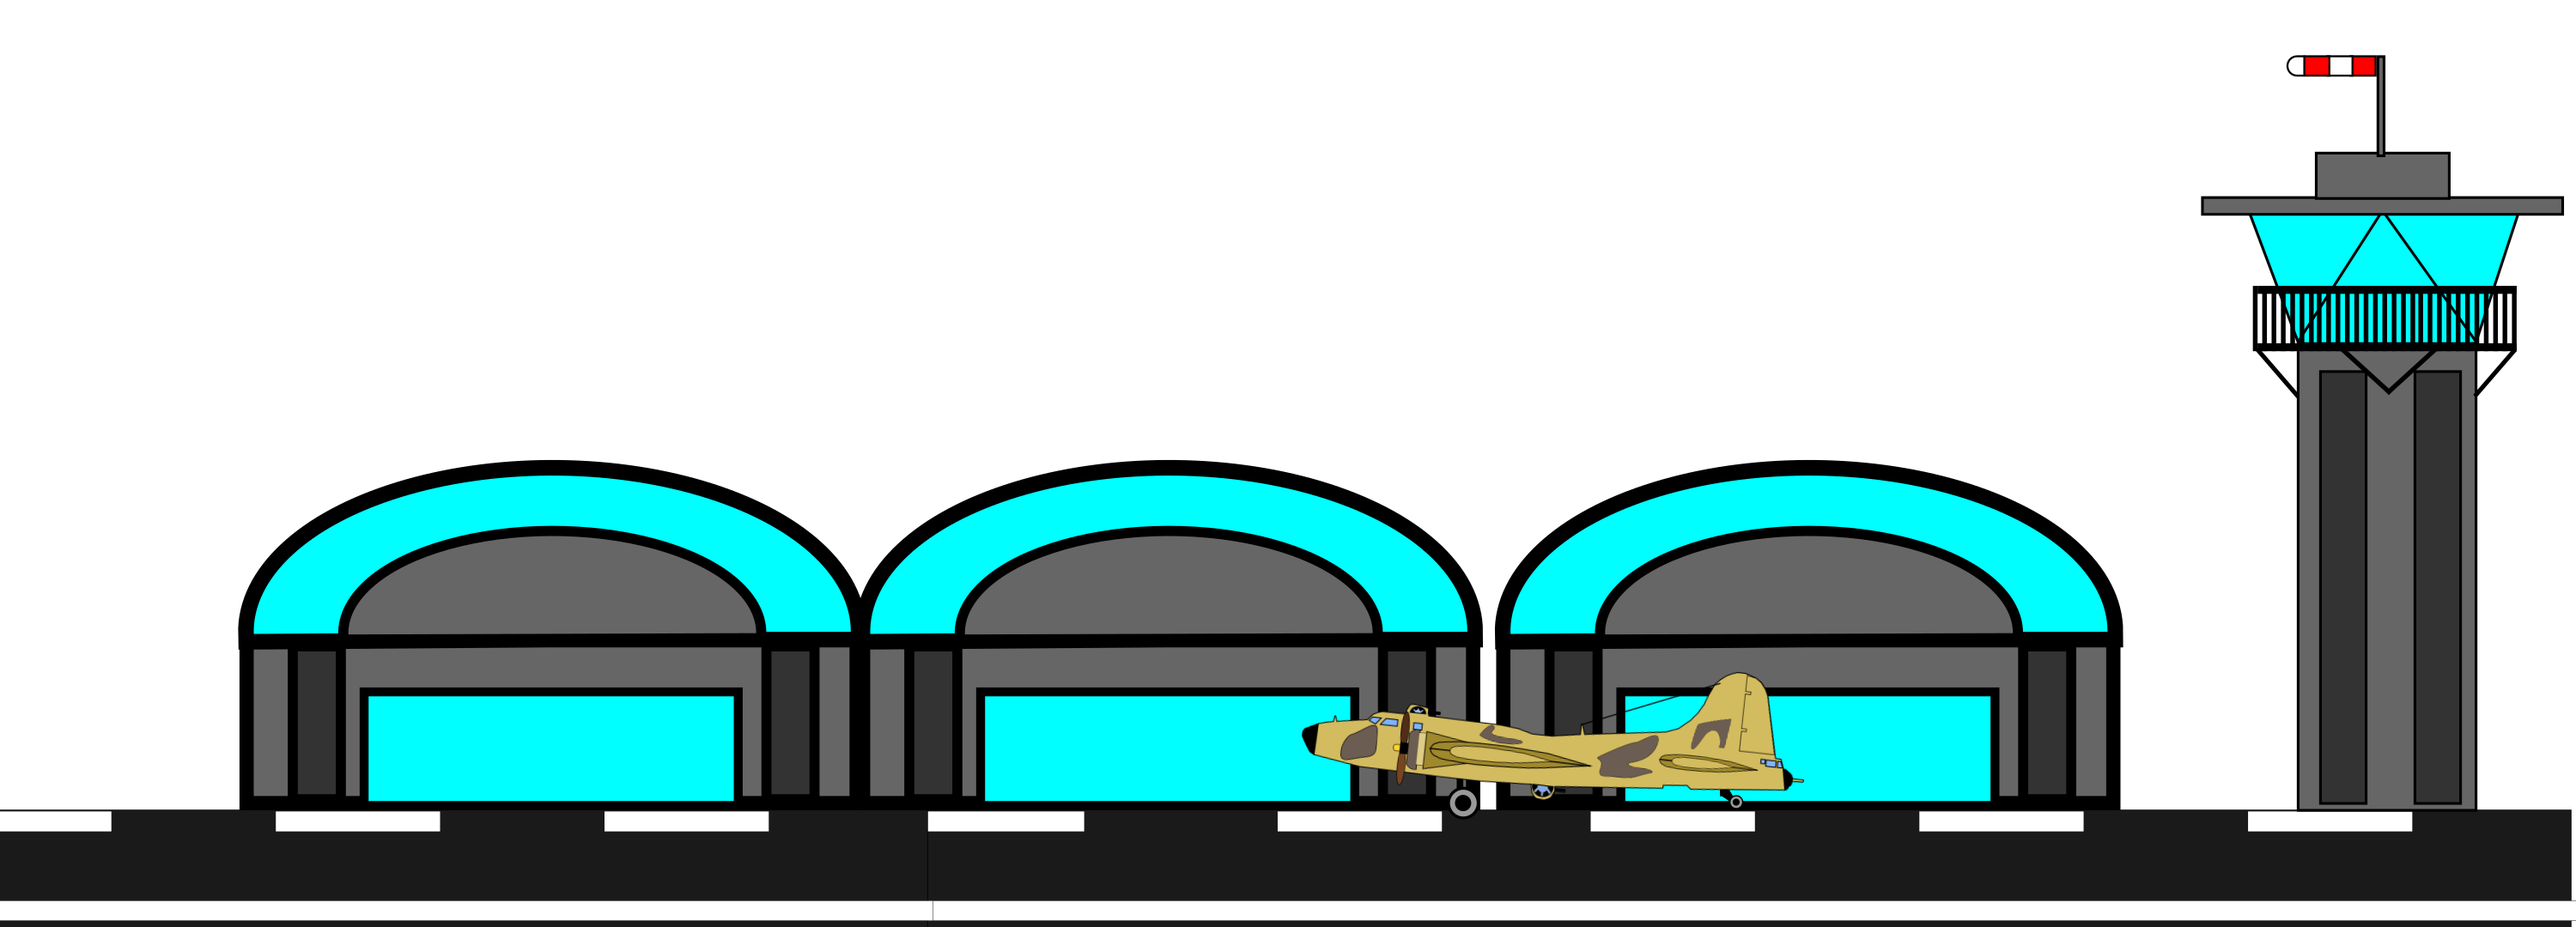
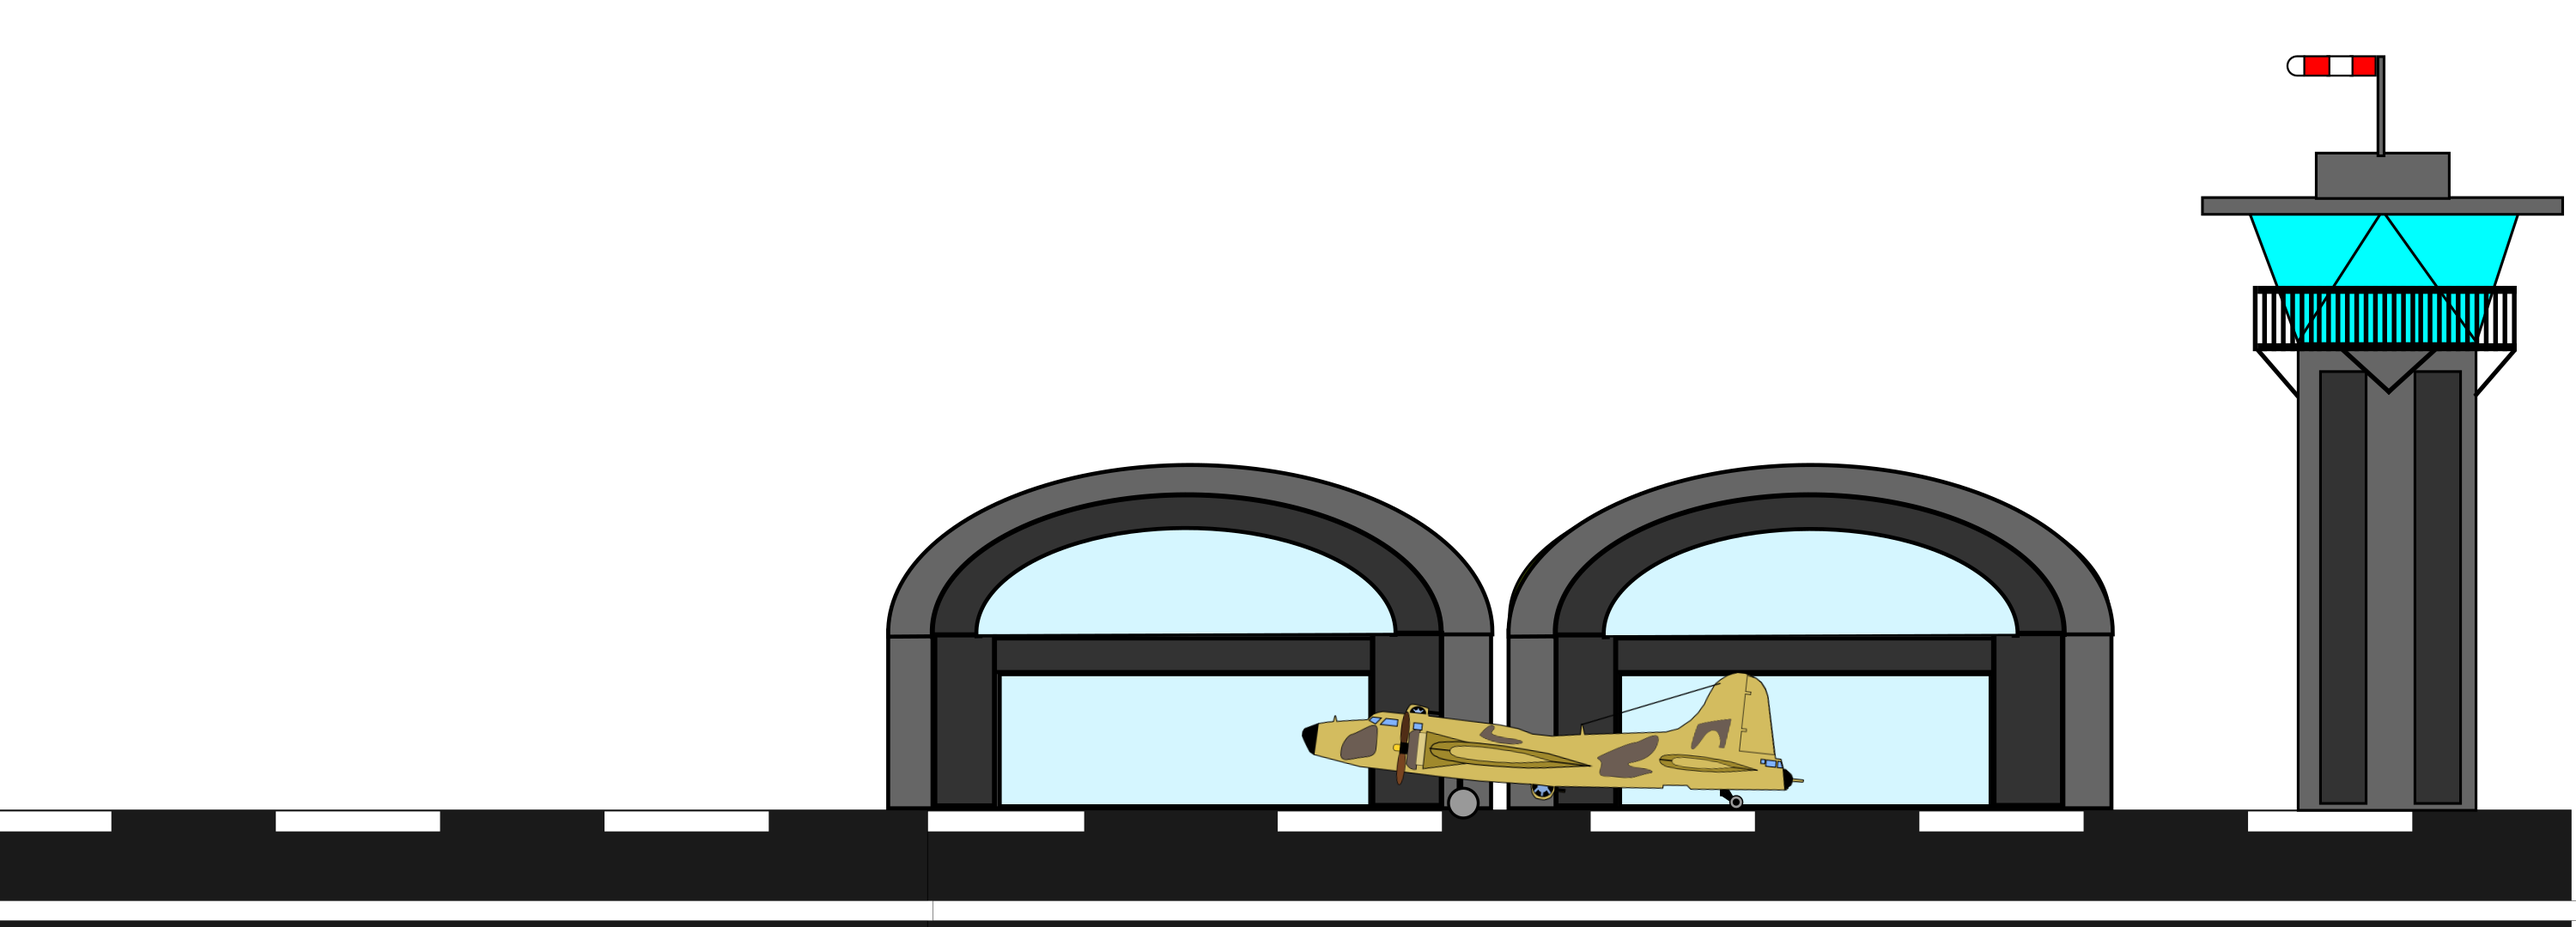
začátek konce hry

Changed region(s): [[0.093, 0.4889, 0.837, 0.8861]]

diff --git a/main_individuální_projekt.py b/main_individuální_projekt.py
@@ -62,7 +62,7 @@ Raketa_image = pygame.image.load('Raketa.png')
 
 pozadí = pygame.image.load("pozadí.png")
 Pohyblive_pozadi = pygame.image.load("Pozadí_pohyblivé.png")
-
+bomba_image = pygame.image.load("bomba.png")
 kanon13 = pygame.image.load("kanon_1l3.png")
 kanon23 = pygame.image.load("kanon_2l3.png")
 kanon33 = pygame.image.load("kanon_3l3.png")
@@ -228,6 +228,7 @@ while True:
                    pohyb_pozadí=0
                    mise= random.randint(1,2)
                    base_x = 3000
+                   bomba = 0
                     
                if pozice_shop.collidepoint(udalost.pos):  # Kontrola, zda kliknutí bylo na obrázku tlačítka
                     Lobby = False
@@ -240,7 +241,8 @@ while True:
                     Infinite_mode = True
                     letadlo.reset(nepritel,vznepritel1,vznepritel2)
                     pohyb_pozadí=0
-            
+                    base_x = 3000
+                    bomba = 0
         
         
                    
@@ -333,6 +335,7 @@ while True:
             if keys[pygame.K_SPACE] and firerate == 0:
                 firerate = Obchod.firerate * powerup.firerate  # Nastavení hodnoty delay
                 vystrel = 1
+
                 
             raketa_vystrelena = 0
             
@@ -343,7 +346,7 @@ while True:
             
             if keys[pygame.K_UP]:
                 letadlo.pohyb_nahoru(Obchod.obratnost)
-            nepritel.rychlost_pozadi =10   #počítání pohybu pod úhlem
+            nepritel.rychlost_pozadi =30  #počítání pohybu pod úhlem
             
                
             nepritel.rychlost_pozadi =-nepritel.rychlost_pozadi * math.sin(math.radians(letadlo.uhel-90))#90je zde k pootočení osy
@@ -367,17 +370,26 @@ while True:
         obrazovka.blit(Pohyblive_pozadi, (umisteni_pozadi1, výška - 100))
         obrazovka.blit(Pohyblive_pozadi, (umisteni_pozadi2, výška - 100))
         
-        if mise ==1:#rozlišení misí
+        if mise ==1 and pohyb_pozadí > -38400:#rozlišení misí
             nepritel.nabíjení(obrazovka, kanon13, kanon23, kanon33 , kanon43, beam3l3,kanon_destroyed)
             
                 
             if nepritel.zivoty_self <= 0 and nepritel.pricti ==True:
                 letadlo.skore+=1000 * powerup.bonus_ke_skore
                 nepritel.pricti = False
-            if pohyb_pozadí < -38400:
-                base_x-=nepritel.rychlost_pozadi
-                obrazovka.blit(enemy_base,(base_x,0))
 
+        elif pohyb_pozadí < -38400:
+            base_x-=nepritel.rychlost_pozadi
+            obrazovka.blit(enemy_base,(base_x,0))
+            if vystrel == 1 and bomba == 0 :
+                bomba = 1
+                bomba_x= letadlo.x -nepritel.rychlost_pozadi
+                bomba_y= letadlo.y -5
+            if bomba ==1:
+                bomba_x-=nepritel.rychlost_pozadi
+                bomba_y+= 5
+
+                obrazovka.blit(bomba_image, (bomba_x, bomba_y))
         else:    
             vznepritel1.odpocet_do_vystrelu(vystrel)
             vznepritel2.odpocet_do_vystrelu(vystrel)
@@ -392,7 +404,7 @@ while True:
             vznepritel1.pohyb(nepritel.rychlost_pozadi)
             vznepritel1.zjev_se(obrazovka)
             vznepritel1.znic_se()
-
+            
             vznepritel2.aiming(letadlo.y,letadlo.x)
 
             if vznepritel2.vystrel  == 1:

diff --git a/nepritel.py b/nepritel.py
@@ -148,7 +148,7 @@ class Nepritel_vzduch:
         if self.strileni==False:
             self.odpocet+=1
             
-        if self.odpocet >30:
+        if self.odpocet >25:
             self.strileni = True
             
         if self.strileni and self.zivoty_self >0:
